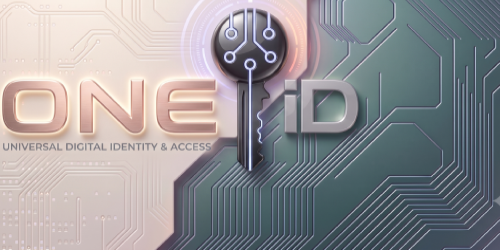
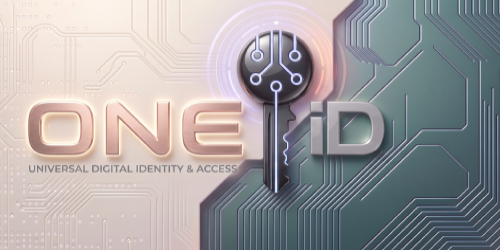
style: refresh user profile cover image

diff --git a/public/dist/css/oneid-user-profile-role.css b/public/dist/css/oneid-user-profile-role.css
@@ -1,5 +1,5 @@
 .profile-box .profile-cover-pic {
-  background-image: url("../../img/gallery/mock-user.png");
+  background-image: url("../../img/gallery/mock-user.png?v=20260823-2");
   background-position: center center;
 }
 

diff --git a/page/dashboard.php b/page/dashboard.php
@@ -68,7 +68,7 @@
       <link href="../dist/css/oneid-user-faq.css?v=20260814-2" rel="stylesheet" type="text/css">
       <link href="../dist/css/oneid-password-modal.css?v=20260814-6" rel="stylesheet" type="text/css">
       <link href="../dist/css/oneid-header-motion.css?v=20260823-3" rel="stylesheet" type="text/css">
-      <link href="../dist/css/oneid-user-profile-role.css?v=20260823-1" rel="stylesheet" type="text/css">
+      <link href="../dist/css/oneid-user-profile-role.css?v=20260823-2" rel="stylesheet" type="text/css">
       <link href="../dist/css/oneid-user-session.css?v=20260808-2" rel="stylesheet" type="text/css">
       <link href="../dist/css/oneid-environment-banner.css?v=20260810-1" rel="stylesheet" type="text/css">
 
